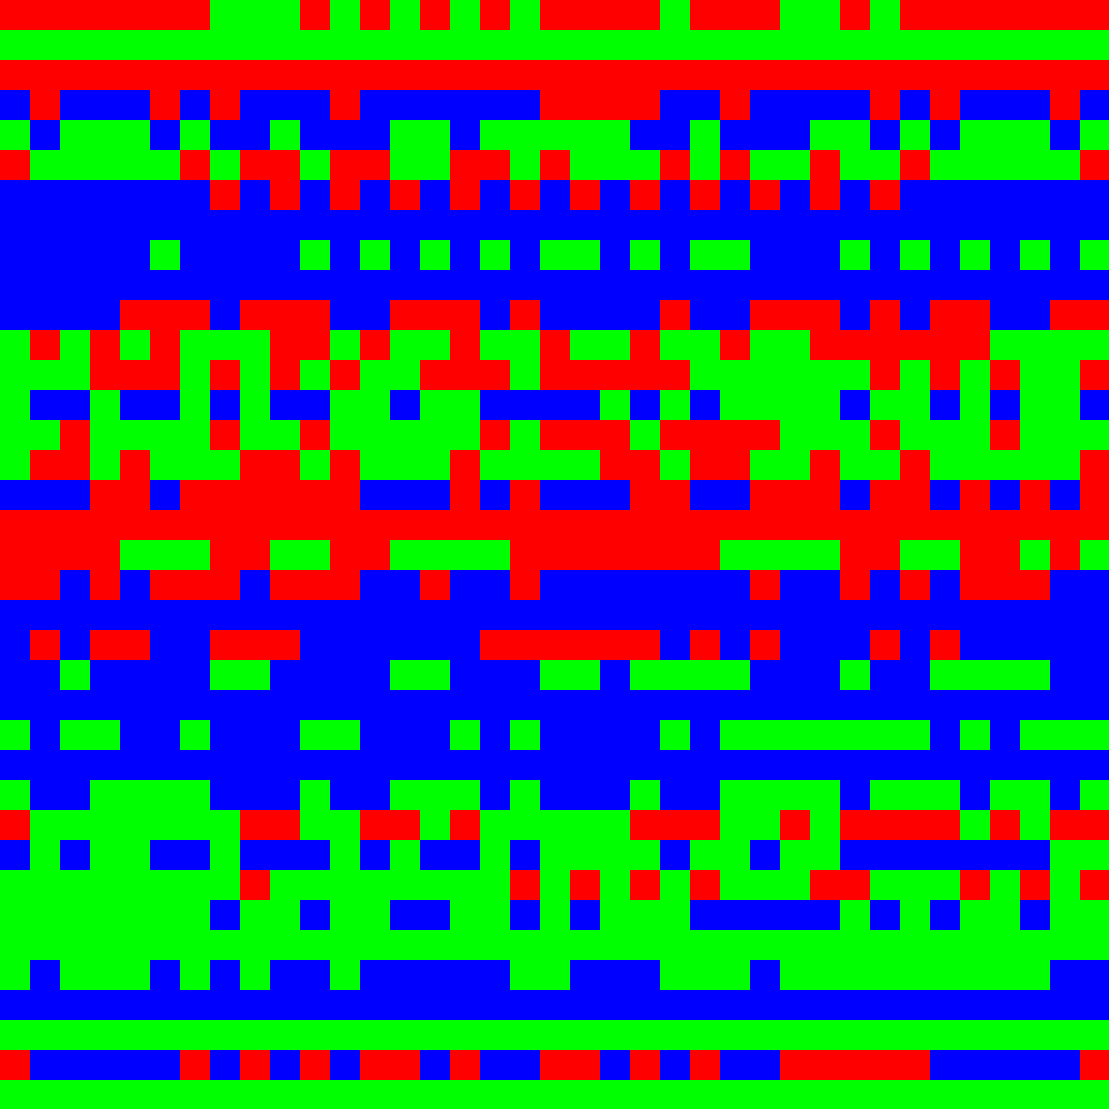
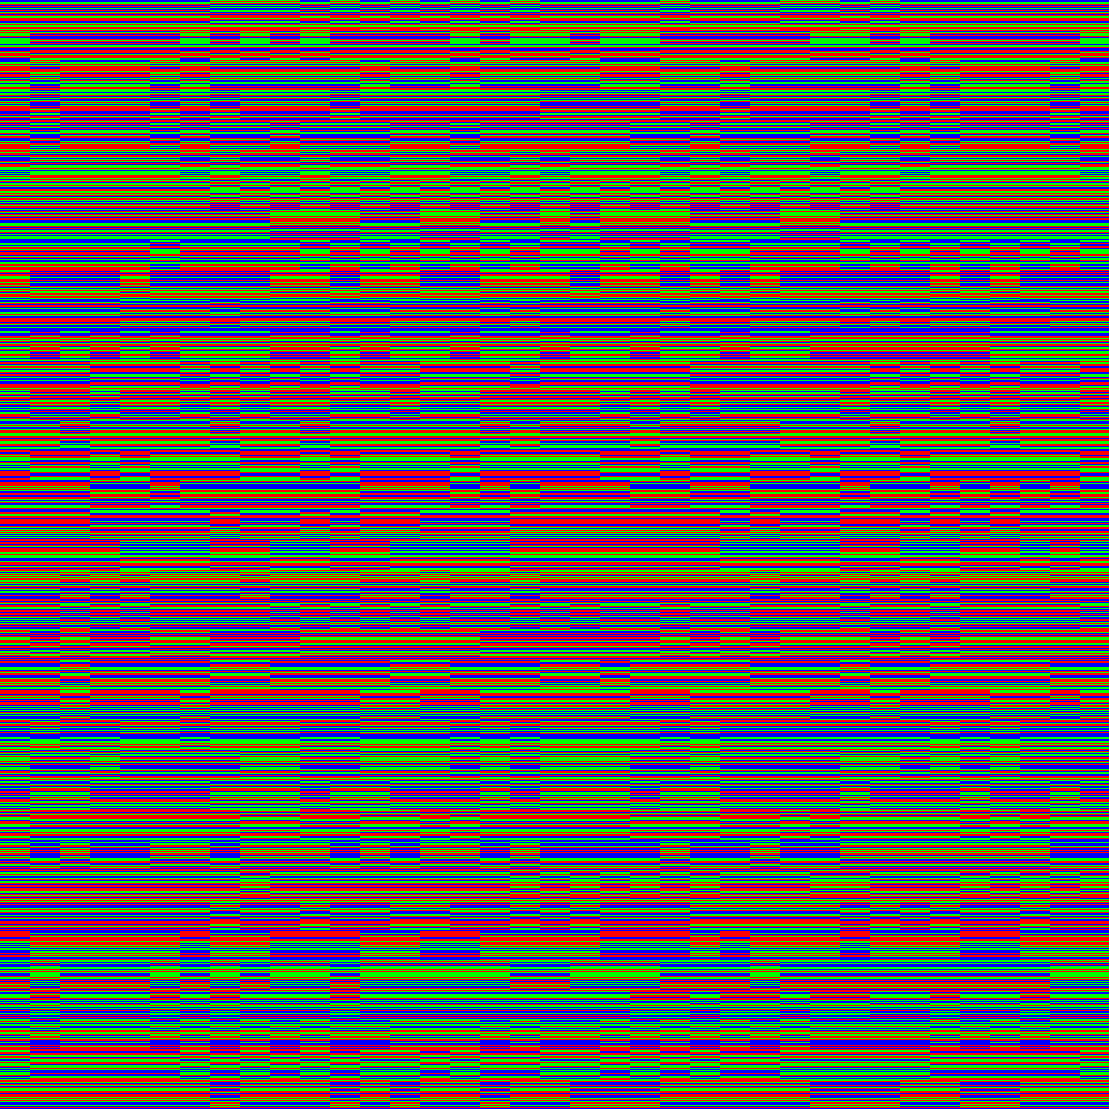
New technique of making random share colors, but contains b/w

diff --git a/my_functions.py b/my_functions.py
@@ -461,108 +461,38 @@ def create_color_shares(qr_code_image_path, module_size):
     share2 = np.zeros((height, width, 3), dtype=np.uint8)
     share3 = np.zeros((height, width, 3), dtype=np.uint8)
 
-    # Define the RGB values for black and the secondary color (e.g., magenta)
-    secondary_color = (255, 0, 255)
-    black_color_choices_1 = [
-        (255, 0, 0),  # Red
-        (0, 0, 255)  # Blue
+    # Define color choices for black and white pixels
+    black_color_choices = [
+        [(255, 0, 0), (0, 0, 255)],  # Red, Blue
+        [(255, 0, 0), (0, 255, 0)],  # Red, Green
+        [(0, 255, 0), (0, 0, 255)]  # Green, Blue
     ]
-    black_color_choices_2 = [
-        (255, 0, 0),  # Red
-        (0, 255, 0)  # Green
-    ]
-    black_color_choices_3 = [
-        (0, 255, 0),  # Green
-        (0, 0, 255)  # Blue
-    ]
-    black_color_choices = [black_color_choices_1, black_color_choices_2, black_color_choices_3]
-
     white_color_choices = [
         (255, 0, 0),  # Red
         (0, 255, 0),  # Green
-        (0, 0, 255),  # Blue
+        (0, 0, 255)  # Blue
     ]
-    secondary_color_rgb = np.array(secondary_color)
 
-    # Replace black pixels with the secondary color in the color array
-    colored_arr[np.where(arr == 0)] = secondary_color_rgb
-    trial_color = (0, 255, 255)
-    colored_arr[np.where(arr != 0)] = np.array(trial_color)
+    # Iterate over the image in module-sized steps
+    for y in range(0, height, module_size):
+        for x in range(0, width, module_size):
+            # Select random color set for the current module
+            black_color_set = random.choice(black_color_choices)
+            white_color_set = random.choice(white_color_choices)
 
-    count_y = 0
-    count_x = 0
-    for y in range(height):
-        if count_y % 30 == 0:
-            choice_set = random.choice([c for c in black_color_choices])
-            share_1_color_black = random.choice([c for c in choice_set])
-            share_2_color_black = random.choice([c for c in choice_set if c != share_1_color_black])
-            share_3_color_black = random.choice([c for c in choice_set])
-            share_1_color_white = random.choice([c for c in white_color_choices])
-            share_2_color_white = random.choice([c for c in white_color_choices if c != share_1_color_white])
-            share_3_color_white = random.choice(
-                [c for c in white_color_choices if c != share_1_color_white and c != share_2_color_white])
-        for x in range(width):
-            if arr[y, x] == 0:  # Black pixel
-                # Choose a random color from the color_choices list (excluding secondary_color)
-                share1[y, x] = share_1_color_black
-                share2[y, x] = share_2_color_black
-                share3[y, x] = share_3_color_black
-            else:  # White pixel
-                # if count_y == 1:
-                #     color = random.choice([c for c in color_choices if c != secondary_color])
-                # Assign the secondary color (e.g., magenta)
-                share1[y, x] = share_1_color_white
-                share2[y, x] = share_2_color_white
-                share3[y, x] = share_3_color_white
-            count_x = count_x + 1
-        count_y = count_y + 1
-    # share1[np.where(arr != 0)] = [255, 0, 0]
-    # share2[np.where(arr != 0)] = [255, 0, 0]
-    # share3[np.where(arr != 0)] = [255, 0, 0]
-    #
-    # share1[np.where(arr == 0)] = [255, 0, 255]
-    # share2[np.where(arr == 0)] = [255, 0, 255]
-    # share3[np.where(arr == 0)] = [255, 0, 255]
-
-    # Iterate through each pixel/module in the grayscale image
-    # for i in range(height):
-    #     for j in range(width):
-    #         grayscale_value = arr[i, j]
-    #
-    #         # Check if the pixel color in the original image is magenta
-    #         original_pixel_color = qr_code_image.getpixel((j, i))
-    #         is_magenta = (original_pixel_color == (255, 0, 255))
-    #         random_number = random.randint(0, 2)
-    #         # Determine unique colors for each share based on grayscale value
-    #         if grayscale_value == 255:
-    #             # White pixel (full brightness)
-    #             if random_number == 0:
-    #                 share1[i, j] = [255, 0, 0]  # Red in share1
-    #                 share2[i, j] = [0, 255, 0]  # Green in share2
-    #                 share3[i, j] = [0, 0, 255]  # Blue in share3
-    #             if random_number == 1:
-    #                 share1[i, j] = [0, 255, 0]  # Red in share1
-    #                 share2[i, j] = [0, 0, 255]  # Green in share2
-    #                 share3[i, j] = [255, 0, 0]  # Blue in share3
-    #             if random_number == 2:
-    #                 share1[i, j] = [0, 0, 255]  # Red in share1
-    #                 share2[i, j] = [255, 0, 0]  # Green in share2
-    #                 share3[i, j] = [0, 255, 0]  # Blue in share3
-    #         elif is_magenta:
-    #             # Magenta pixel (secondary color)
-    #             if random_number == 0:
-    #                 share1[i, j] = [255, 0, 0]  # Red in share1
-    #                 share2[i, j] = [255, 0, 0]  # Red (same as share1) in share2
-    #                 share3[i, j] = [0, 255, 0]  # Green in share3
-    #             if random_number == 1:
-    #                 share1[i, j] = [0, 0, 255]  # Red in share1
-    #                 share2[i, j] = [0, 0, 255]  # Red (same as share1) in share2
-    #                 share3[i, j] = [255, 0, 0]  # Green in share3
-    #             if random_number == 2:
-    #                 share1[i, j] = [0, 255, 0]  # Red in share1
-    #                 share2[i, j] = [0, 255, 0]  # Red (same ased
-    #                 # share1) in share2
-    #                 share3[i, j] = [0, 0, 255]  # Green in share3
+            # Assign colors to the pixels within the current module
+            for dy in range(module_size):
+                for dx in range(module_size):
+                    ny, nx = y + dy, x + dx
+                    if ny < height and nx < width:  # Check bounds to avoid out-of-bound access
+                        if arr[ny, nx] == 0:  # Black pixel
+                            share1[ny, nx] = black_color_set[0]
+                            share2[ny, nx] = black_color_set[1]
+                            share3[ny, nx] = black_color_set[0]  # Use the same as share1 for simplicity
+                        else:  # White pixel
+                            share1[ny, nx] = white_color_set[0]
+                            share2[ny, nx] = white_color_set[1]
+                            share3[ny, nx] = white_color_set[2]
 
     # Create PIL images from the color shares
     share1_img = Image.fromarray(share1, 'RGB')

diff --git a/main.py b/main.py
@@ -15,9 +15,9 @@ def main():
     secret_data = "I'm Nasser, telecom student at Shandong University of Science and Technology. I am happy.."
     input_image_path = "images/input/original_qr_code.png"
     intermediate_image_path = "images/output/intermediate_qr_code1.png"
-    share1_output_path = "images/output/share1_a.png"
-    share2_output_path = "images/output/share2_a.png"
-    share3_output_path = "images/output/share3_a.png"
+    share1_output_path = "images/output/share1_b.png"
+    share2_output_path = "images/output/share2_b.png"
+    share3_output_path = "images/output/share3_b.png"
     gray_image_path = "images/output/grayscale_image.png"
     binarized_image_path = "images/output/binarized_image.png"
     cropped_image_path = "images/output/cropped_image2.png"
